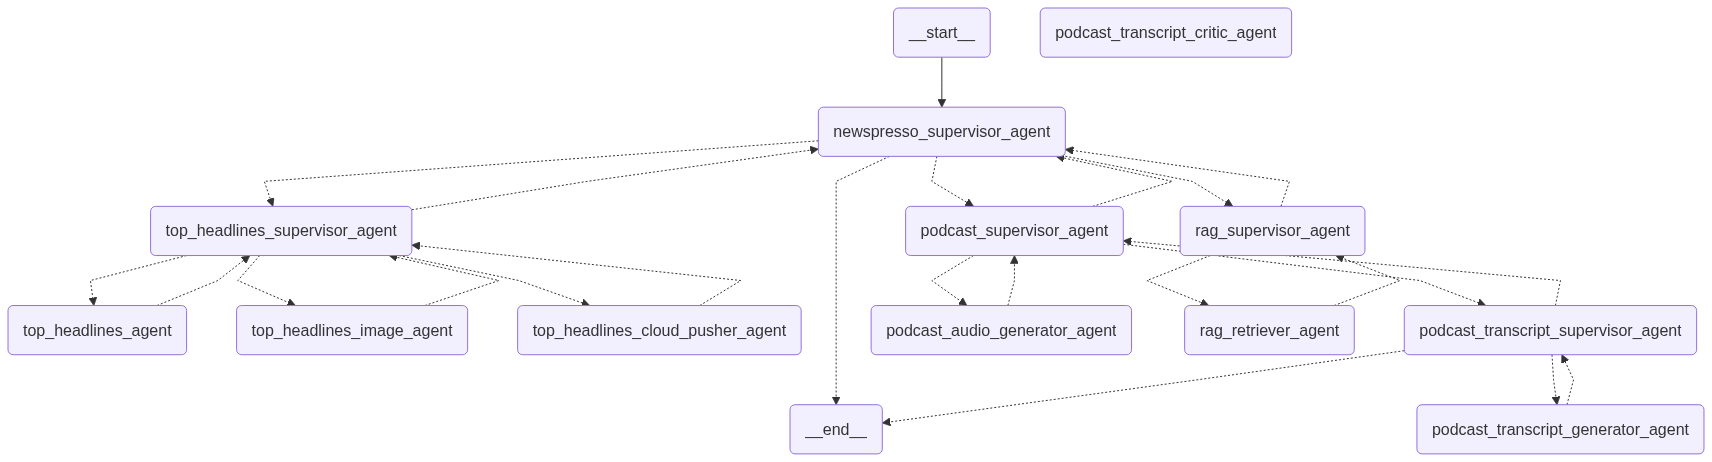
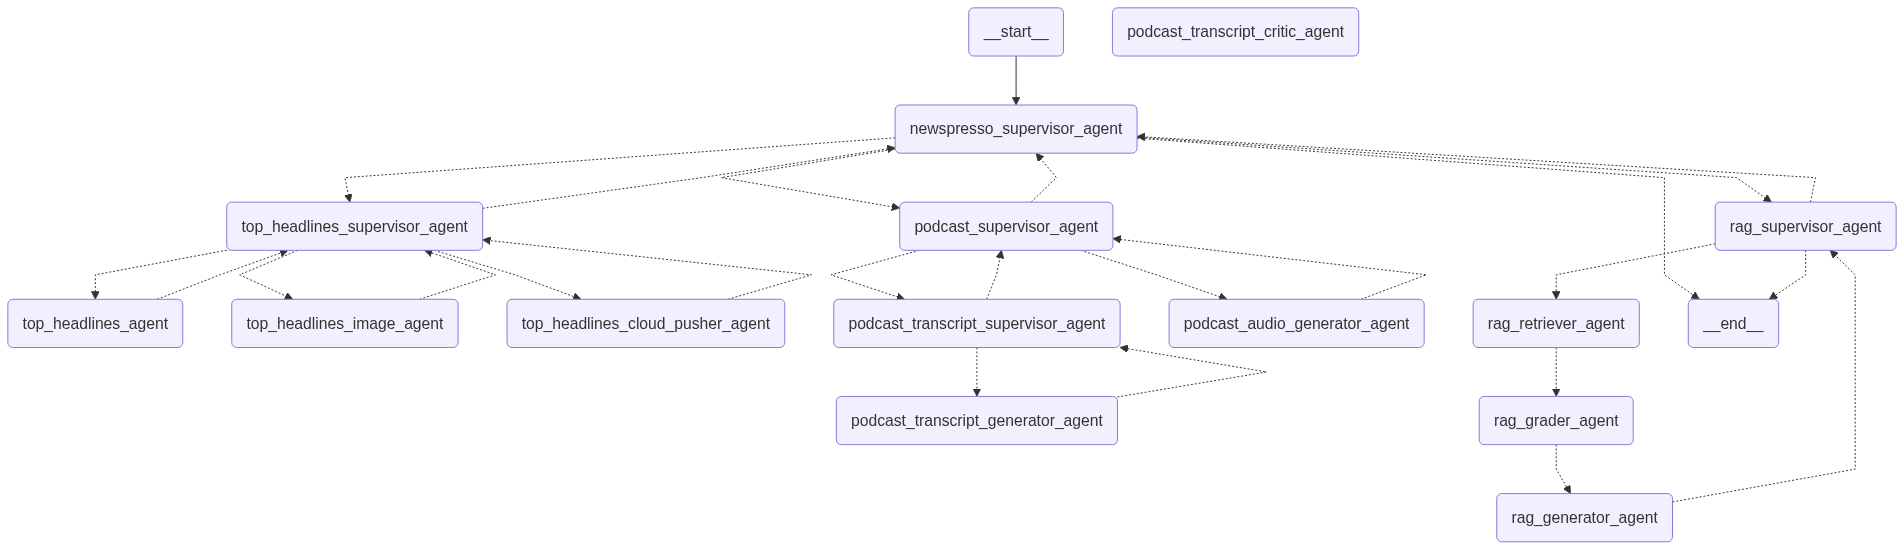
add rag functionality

diff --git a/ML Projects/Langgraph-Practice/15-news-summarizer/functions/newspresso_team/rag_team/rag_grader_agent.py b/ML Projects/Langgraph-Practice/15-news-summarizer/functions/newspresso_team/rag_team/rag_grader_agent.py
@@ -1,0 +1,79 @@
+from common_imports import *
+from constants import *
+from classes import AgentState, RAGClass, RAGGraderClass
+from tools.helper_tools.tools import *
+from functions.newspresso_team.rag_team.rag_retriever_agent import role_of_each_rag_retriever_worker
+
+def rag_grader_node(state: AgentState) -> Command[Literal[RAG_GENERATOR_AGENT]]:
+    print("====RAG GRADER NODE=====")
+    print("===STATE AT RAG GRADER NODE=====")
+    print(state)
+    user_question = state["user_question"]
+    documents = state["rag_class"]["rag_retriever_class"]["rag_retriever_results"]
+    date = state["rag_class"]["rag_retriever_class"]["date"]
+    system_prompt = f"{role_of_each_rag_retriever_worker[RAG_GRADER_AGENT]}"+"""
+    You are a helpful assistant that grades the relevance of documents to a question. \n
+    You will be given a question and a document. \n
+    The output should be a binary score of yes or no. \n
+    If the document is relevant to the question, the output should be yes. \n
+    If the document is not relevant to the question or there are no documents retrieved or the document is not from today's date, the output should be no. \n
+    """
+    prompt = ChatPromptTemplate.from_messages([
+        ("system", system_prompt),
+        ("user", "Here is the user question: {user_question} and the date: {date}. The document to be graded: {document} and the urls which are relevant to the document: {urls}"),
+    ])
+    invoke_message = {"input": "Please do the task as per the system prompt"}
+    filtered_docs = []
+    for document in documents:
+        formatted_prompt = prompt.format(user_question=user_question, date=date, document=document['metadata']['content_summary'], urls=document['metadata']['sources'])
+        rag_grader_agent = create_react_agent(llm, 
+                                                tools=rag_grader_agent_tools,
+                                                prompt = formatted_prompt
+                                                )
+        document_result = rag_grader_agent.invoke(invoke_message)
+        print("===HERE IS THE RESULT OF THE DOCUMENT:", document['id'],"===")
+        print(document_result)
+        if document_result["messages"][-1].content.lower() == "yes":
+            print("=====GRADER: DOCUMENT IS RELEVANT======")
+            filtered_docs.append(document)
+        else:
+            print("=====GRADER: DOCUMENT IS NOT RELEVANT======")
+    rag_grader_final_result = "yes"
+    if len(filtered_docs) == 0:
+        rag_grader_final_result = "no"
+    print("===RESULT OF RAG GRADER NODE=====")
+    print("RAG GRADER FINAL RESULT: ", rag_grader_final_result)
+    print("FILTERED DOCUMENTS: ", filtered_docs)
+
+    rag_grader_class = RAGGraderClass(
+            rag_grader_final_result=rag_grader_final_result,
+            filtered_documents=filtered_docs
+    )
+    if state.get("rag_class") is not None:
+        rag_class = state["rag_class"].copy()
+        rag_class["rag_grader_class"] = rag_grader_class
+
+    if rag_grader_final_result == "no":
+        return Command(
+            update={
+                "messages": [
+                    HumanMessage(content="RAG grader graded the relevance of the documents successfully and no documents were found relevant to the user question. This question is not answerable.", name=RAG_GRADER_AGENT)
+                ],
+                "rag_class": rag_class,
+            },
+            goto=RAG_GENERATOR_AGENT,
+        )
+    
+    return Command(
+        update={
+            "messages": [
+                HumanMessage(content="RAG grader graded the relevance of the documents successfully. The documents are relevant to the user question. This question is answerable.", name=RAG_GRADER_AGENT)
+            ],
+            "rag_class": rag_class,
+        },
+        goto=RAG_GENERATOR_AGENT,
+    )
+
+role_of_each_rag_grader_worker = {
+    RAG_GENERATOR_AGENT: "You are a helpful assistant that generates the final answer to the user question. \n"
+}

diff --git a/ML Projects/Langgraph-Practice/15-news-summarizer/functions/newspresso_team/rag_team/rag_retriever_agent.py b/ML Projects/Langgraph-Practice/15-news-summarizer/functions/newspresso_team/rag_team/rag_retriever_agent.py
@@ -1,42 +1,54 @@
 from common_imports import *
 from constants import *
-from classes import AgentState, RAGClass
+from classes import AgentState, RAGRetrieverClass, RAGClass
 from tools.helper_tools.tools import *
 from functions.newspresso_team.rag_team.rag_supervisor_agent import role_of_each_rag_worker
 
-def rag_retriever_node(state: AgentState) -> Command[Literal[RAG_SUPERVISOR_AGENT]]:
+def rag_retriever_node(state: AgentState) -> Command[Literal[RAG_GRADER_AGENT]]:
     print("====RAG RETRIEVER NODE=====")
     print("===STATE AT RAG RETRIEVER NODE=====")
     print(state)
-    user_question = state["messages"][0].content
+    user_question = state["user_question"]
+    top_k = TOP_K_FOR_RAG_RETRIEVER
     system_prompt = f"{role_of_each_rag_worker[RAG_RETRIEVER_AGENT]}"+"""
-    You are given a user question. You need to retrieve the top headlines from the pinecone database that are relevant to the user question. \n
-    You need to return the top documents that are relevant to the user question. \n
+    You are given a user question. You need to return the top k documents in output. \n
     """
     prompt = ChatPromptTemplate.from_messages([
         ("system", system_prompt),
-        ("user", "Here is the user question: {user_question}"),
+        ("user", "Here is the user question: {user_question} and the value of top_k: {top_k}"),
     ])
-    formatted_prompt = prompt.format(user_question=user_question)
+
+    formatted_prompt = prompt.format(user_question=user_question, top_k=top_k)
     rag_retriever_agent = create_react_agent(llm, 
                                              tools=rag_retriever_agent_tools, 
                                              prompt = formatted_prompt,
-                                             response_format=RAGClass)
-    invoke_message = {"user_question": user_question}
+                                             response_format=RAGRetrieverClass)
+    invoke_message = {"input": "Please do the task as per the system prompt"}
     result = rag_retriever_agent.invoke(invoke_message)
     print("===RESULT OF RAG RETRIEVER NODE=====")
     print(result)
 
-    rag_class = RAGClass(
+    # Extract the tool call output from the result
+    tool_output = None
+    for message in result["messages"]:
+        if isinstance(message, ToolMessage) and message.name == "retrieve_headlines_from_pinecone":
+            tool_output = json.loads(message.content)  # Parse the JSON string into a Python dictionary
+            break
+
+    rag_retriever_class = RAGRetrieverClass(
             date=result["structured_response"]["date"],
-            rag_retriever_results=result["structured_response"]["rag_retriever_results"]
+            rag_retriever_results=tool_output
     )
     return Command(
         update={
             "messages": [
                 HumanMessage(content="RAG retriever fetched the relevant headlines successfully.", name=RAG_RETRIEVER_AGENT)
             ],
-            "rag_class": rag_class,
+            "rag_class": RAGClass(rag_retriever_class=rag_retriever_class),
         },
-        goto=RAG_SUPERVISOR_AGENT,
+        goto=RAG_GRADER_AGENT,
     )
+
+role_of_each_rag_retriever_worker = {
+    RAG_GRADER_AGENT: "Agent who is tasked with grading the relevance of retrieved documents to a user question.",
+}

diff --git a/ML Projects/Langgraph-Practice/15-news-summarizer/functions/newspresso_team/rag_team/rag_generator_agent.py b/ML Projects/Langgraph-Practice/15-news-summarizer/functions/newspresso_team/rag_team/rag_generator_agent.py
@@ -1,0 +1,50 @@
+from common_imports import *
+from constants import *
+from classes import AgentState, RAGGeneratorClass
+from tools.helper_tools.tools import *
+from functions.newspresso_team.rag_team.rag_grader_agent import role_of_each_rag_grader_worker
+
+def rag_generator_node(state: AgentState) -> Command[Literal[RAG_SUPERVISOR_AGENT]]:
+    print("====RAG GENERATOR NODE=====")
+    print("===STATE AT RAG GENERATOR NODE=====")
+    print(state)
+    user_question = state["user_question"]
+    filtered_documents = state["rag_class"]["rag_grader_class"]["filtered_documents"]
+    rag_grader_final_result = state["rag_class"]["rag_grader_class"]["rag_grader_final_result"]
+    system_prompt = f"{role_of_each_rag_grader_worker[RAG_GENERATOR_AGENT]}"+"""
+    If you can't answer the question, you need to say that you can't answer the question. \n
+    If the question is answerable, you need to answer the question in an elaborate manner. \n
+    You can also use the documents attached to enrich your answer in case it's an answerable question. \n
+    """
+    prompt = ChatPromptTemplate.from_messages([
+        ("system", system_prompt),
+        ("user", "Here is the user question: {user_question}. (Yes/No) whether the question is answerable or not: {rag_grader_final_result}. The filtered documents (in case the question is answerable): {filtered_documents}"),
+    ])
+    invoke_message = {"input": "Please do the task as per the system prompt"}
+    formatted_prompt = prompt.format(user_question=user_question, rag_grader_final_result=rag_grader_final_result, filtered_documents=filtered_documents)
+    rag_generator_agent = create_react_agent(llm, 
+                                             tools=[],
+                                             prompt = formatted_prompt,
+                                             response_format=RAGGeneratorClass
+                                             )
+    result = rag_generator_agent.invoke(invoke_message)
+    print("===RESULT OF RAG GENERATOR NODE=====")
+    print(result)
+
+    rag_generator_class = RAGGeneratorClass(
+            rag_generator_final_answer=result["structured_response"]["rag_generator_final_answer"],
+            sources=result["structured_response"]["sources"]
+    )
+    if state.get("rag_class") is not None:
+        rag_class = state["rag_class"].copy()
+        rag_class["rag_generator_class"] = rag_generator_class
+
+    return Command(
+        update={
+            "messages": [
+                HumanMessage(content="RAG generator generated the final answer successfully.", name=RAG_GENERATOR_AGENT)
+            ],
+            "rag_class": rag_class,
+        },
+        goto=RAG_SUPERVISOR_AGENT,
+    )

diff --git a/ML Projects/Langgraph-Practice/15-news-summarizer/tools/helper_tools/tools.py b/ML Projects/Langgraph-Practice/15-news-summarizer/tools/helper_tools/tools.py
@@ -3,6 +3,7 @@ import re
 from tools.podcast_tools.gemini_multispeaker_tool import GeminiMultiSpeakerTool
 from tools.pinecone_tools.main import HeadlineIngestor, HeadlineRetriever
 
+
 @tool
 def read_json_file(file_path: str) -> str:
     """Reads and returns the contents of a JSON file.
@@ -140,6 +141,17 @@ def web_search(query: str) -> str:
     """Searches the web for the query."""
     search = TavilySearchResults()
     return search.invoke(query)
+
+@tool
+def web_search_with_url(url: str) -> str:
+    """Searches the web for the query using the url.
+    Args:
+        url: The url to search the web for.
+    Returns:
+        str: The result of the web search.
+    """
+    search = TavilySearchResults()
+    return search.invoke(url=url)
 
 @tool
 def push_headlines_to_firebase_db(category: str, file_path: str) -> str:
@@ -315,7 +327,7 @@ def push_top_headlines_to_pinecone(top_headlines_json_file: str, index_name: str
     return result
 
 @tool
-def retrieve_headlines_from_pinecone(user_question: str, date: str) -> str:
+def retrieve_headlines_from_pinecone(user_question: str, date: str, top_k: int) -> str:
     """Retrieves the headlines from the pinecone database.
     Args:
         user_question: The user question to retrieve the headlines from the pinecone database.
@@ -323,8 +335,19 @@ def retrieve_headlines_from_pinecone(user_question: str, date: str) -> str:
         str: The result of the pinecone retrieval.
     """
     retriever = HeadlineRetriever(index_name=pinecone_index_name)
-    result = retriever.retrieve_headlines(user_question, date=date)
+    result = retriever.retrieve_headlines(user_question, date=date, top_k=top_k)
     return result
+
+@tool
+def get_stock_price(ticker: str) -> float:
+    """Gets a stock price from Yahoo Finance.
+
+    Args:
+        ticker: ticker str
+    """
+    stock = yf.Ticker(ticker)
+    return stock.info['previousClose']
+
 
 project_root = Path(__file__).parent.parent.parent
 
@@ -353,3 +376,4 @@ podcast_transcript_critic_agent_tools = [read_text_file, web_search]
 podcast_audio_generator_agent_tools = [generate_podcast_from_gemini, push_audio_to_firebase_storage, read_text_file]
 
 rag_retriever_agent_tools = [retrieve_headlines_from_pinecone, get_todays_date_and_day]
+rag_grader_agent_tools = [web_search_with_url]

diff --git a/ML Projects/Langgraph-Practice/15-news-summarizer/classes.py b/ML Projects/Langgraph-Practice/15-news-summarizer/classes.py
@@ -17,12 +17,27 @@ class TopHeadlinesClass(TypedDict):
     top_headlines_critique: str = Field(description="The critique of the top headlines")
     top_headlines_critique_count: int = Field(description="The count of the critique of the top headlines")
 
-class RAGClass(TypedDict):
+class RAGRetrieverClass(TypedDict):
     date: str = Field(description="The date of the news in the format of YYYY-MM-DD")
-    rag_retriever_results: List[Dict[str, Any]] = Field(description="The results of the rag retriever")
+    rag_retriever_results: List[Dict[str, Any]] = Field(description="The top_k relevant documents fetched from the pinecone database by the rag retriever using the tool")
+
+class RAGGraderClass(TypedDict):
+    rag_grader_final_result: str = Field(description="The binary score whether the document is relevant to the user question or not. If the document is relevant, the output should be yes. If the document is not relevant, the output should be no.")
+    filtered_documents: List[Dict[str, Any]] = Field(description="The filtered documents")
+
+class RAGGeneratorClass(TypedDict):
+    rag_generator_final_answer: str = Field(description="The final answer to the user question")
+    sources: List[str] = Field(description="The sources of the URLs of the final answer (in case the question is answerable)")
+
+class RAGClass(TypedDict):
+    rag_retriever_class: RAGRetrieverClass = Field(description="The rag retriever class")
+    rag_grader_class: RAGGraderClass = Field(description="The rag grader class")
+    rag_generator_class: RAGGeneratorClass = Field(description="The rag generator class")
 
 class AgentState(MessagesState):
+    user_question: str = Field(description="The user question")
     next: str = Field(description="The next agent to call")
     top_headlines_class: TopHeadlinesClass = Field(description="The top headlines class")
     podcast_class: PodcastClass = Field(description="The podcast class")
     category_class: CategoryClass = Field(description="The category class")
+    rag_class: RAGClass = Field(description="The rag class")

diff --git a/ML Projects/Langgraph-Practice/15-news-summarizer/main.py b/ML Projects/Langgraph-Practice/15-news-summarizer/main.py
@@ -25,8 +25,10 @@ if __name__ == "__main__":
     # processsed_news_file_path = NewsTool().processed_news_path
     # print(processsed_news_file_path)
     # question = "What are the latest top headlines in the general category in the last 24 hours? Create a podcast on the same."
-    # question = "What are the latest top headlines in the general category? Create a podcast on the same."
-    question = "RAG: What are the new tarrifs imposed on steel?"
+    # question = "What are the latest top headlines in the entertainment category in the last 24 hours? Create a podcast on the same."
+    # question = "RAG: What's the latest news on the US-China trade war?"
+    question = "RAG: What's the latest news on Owen Wilson?"
+    # question = "RAG: Tell me about the recent news on Taylor Swift's new album?"
     displayGraph(graph)
     result = graph.invoke({"messages": [question]}, config={"recursion_limit": 35})
     print("======RESULT=======")

diff --git a/ML Projects/Langgraph-Practice/15-news-summarizer/graph.py b/ML Projects/Langgraph-Practice/15-news-summarizer/graph.py
@@ -14,6 +14,8 @@ from functions.newspresso_team.podcast_team.podcast_transcript_supervisor_agent.
 
 from functions.newspresso_team.rag_team.rag_supervisor_agent import rag_supervisor_agent
 from functions.newspresso_team.rag_team.rag_retriever_agent import rag_retriever_node
+from functions.newspresso_team.rag_team.rag_grader_agent import rag_grader_node
+from functions.newspresso_team.rag_team.rag_generator_agent import rag_generator_node
 
 from common_imports import *
 from classes import AgentState
@@ -35,6 +37,8 @@ workflow.add_node(PODCAST_TRANSCRIPT_CRITIC_AGENT, podcast_transcript_critic_nod
 
 workflow.add_node(RAG_SUPERVISOR_AGENT, rag_supervisor_agent)
 workflow.add_node(RAG_RETRIEVER_AGENT, rag_retriever_node)
+workflow.add_node(RAG_GRADER_AGENT, rag_grader_node)
+workflow.add_node(RAG_GENERATOR_AGENT, rag_generator_node)
 
 workflow.add_edge(START, NEWSPRESSO_SUPERVISOR_AGENT)
 

diff --git a/ML Projects/Langgraph-Practice/15-news-summarizer/constants.py b/ML Projects/Langgraph-Practice/15-news-summarizer/constants.py
@@ -3,6 +3,7 @@ PERPLEXITY_API_URL = "https://api.perplexity.ai/chat/completions"
 
 MAX_TOP_HEADLINES_CRITIQUE_COUNT = 1
 MAX_PODCAST_TRANSCRIPT_CRITIQUE_COUNT = 1
+TOP_K_FOR_RAG_RETRIEVER = 3
 
 NEWSPRESSO_SUPERVISOR_AGENT = "newspresso_supervisor_agent"
 
@@ -19,3 +20,5 @@ PODCAST_TRANSCRIPT_CRITIC_AGENT = "podcast_transcript_critic_agent"
 
 RAG_SUPERVISOR_AGENT = "rag_supervisor_agent"
 RAG_RETRIEVER_AGENT = "rag_retriever_agent"
+RAG_GRADER_AGENT = "rag_grader_agent"
+RAG_GENERATOR_AGENT = "rag_generator_agent"

diff --git a/ML Projects/Langgraph-Practice/15-news-summarizer/functions/newspresso_team/rag_team/rag_supervisor_agent.py b/ML Projects/Langgraph-Practice/15-news-summarizer/functions/newspresso_team/rag_team/rag_supervisor_agent.py
@@ -61,7 +61,7 @@ def make_rag_supervisor_node(llm, members, role_of_each_worker) -> str:
 
 
 role_of_each_rag_worker = {
-    RAG_RETRIEVER_AGENT: "Agent who is tasked with retrieving the top headlines from the pinecone database.",
+    RAG_RETRIEVER_AGENT: "Agent who is tasked with retrieving the top_k relevant documents from the pinecone database according to the user question.",
 }
 
 # RAG AGENT SUPERVISOR

diff --git a/ML Projects/Langgraph-Practice/15-news-summarizer/tools/pinecone_tools/main.py b/ML Projects/Langgraph-Practice/15-news-summarizer/tools/pinecone_tools/main.py
@@ -160,7 +160,7 @@ class HeadlineRetriever:
         # Query Pinecone with a larger top_k to account for filtering
         results = self.index.query(
             vector=query_embedding,
-            top_k=top_k * 2 if date else top_k,  # Fetch more results if we need to filter
+            top_k=top_k,  # Fetch more results if we need to filter
             include_metadata=True
         )
         

diff --git a/ML Projects/Langgraph-Practice/15-news-summarizer/functions/newspresso_team/newspresso_supervisor_agent.py b/ML Projects/Langgraph-Practice/15-news-summarizer/functions/newspresso_team/newspresso_supervisor_agent.py
@@ -41,7 +41,7 @@ def make_newspresso_supervisor_node(llm, members, role_of_each_worker) -> str:
             goto = END
         print("===GOTO=====")
         print(goto)
-        return Command(goto=goto, update={"next": goto})
+        return Command(goto=goto, update={"next": goto, "user_question": question})
 
     return newspresso_supervisor_node
 

diff --git a/ML Projects/Langgraph-Practice/15-news-summarizer/common_imports.py b/ML Projects/Langgraph-Practice/15-news-summarizer/common_imports.py
@@ -37,6 +37,7 @@ from typing import Annotated
 from constants import *
 import requests
 
+
 # Other imports
 from pydantic import BaseModel, Field
 from IPython.display import Image, display
